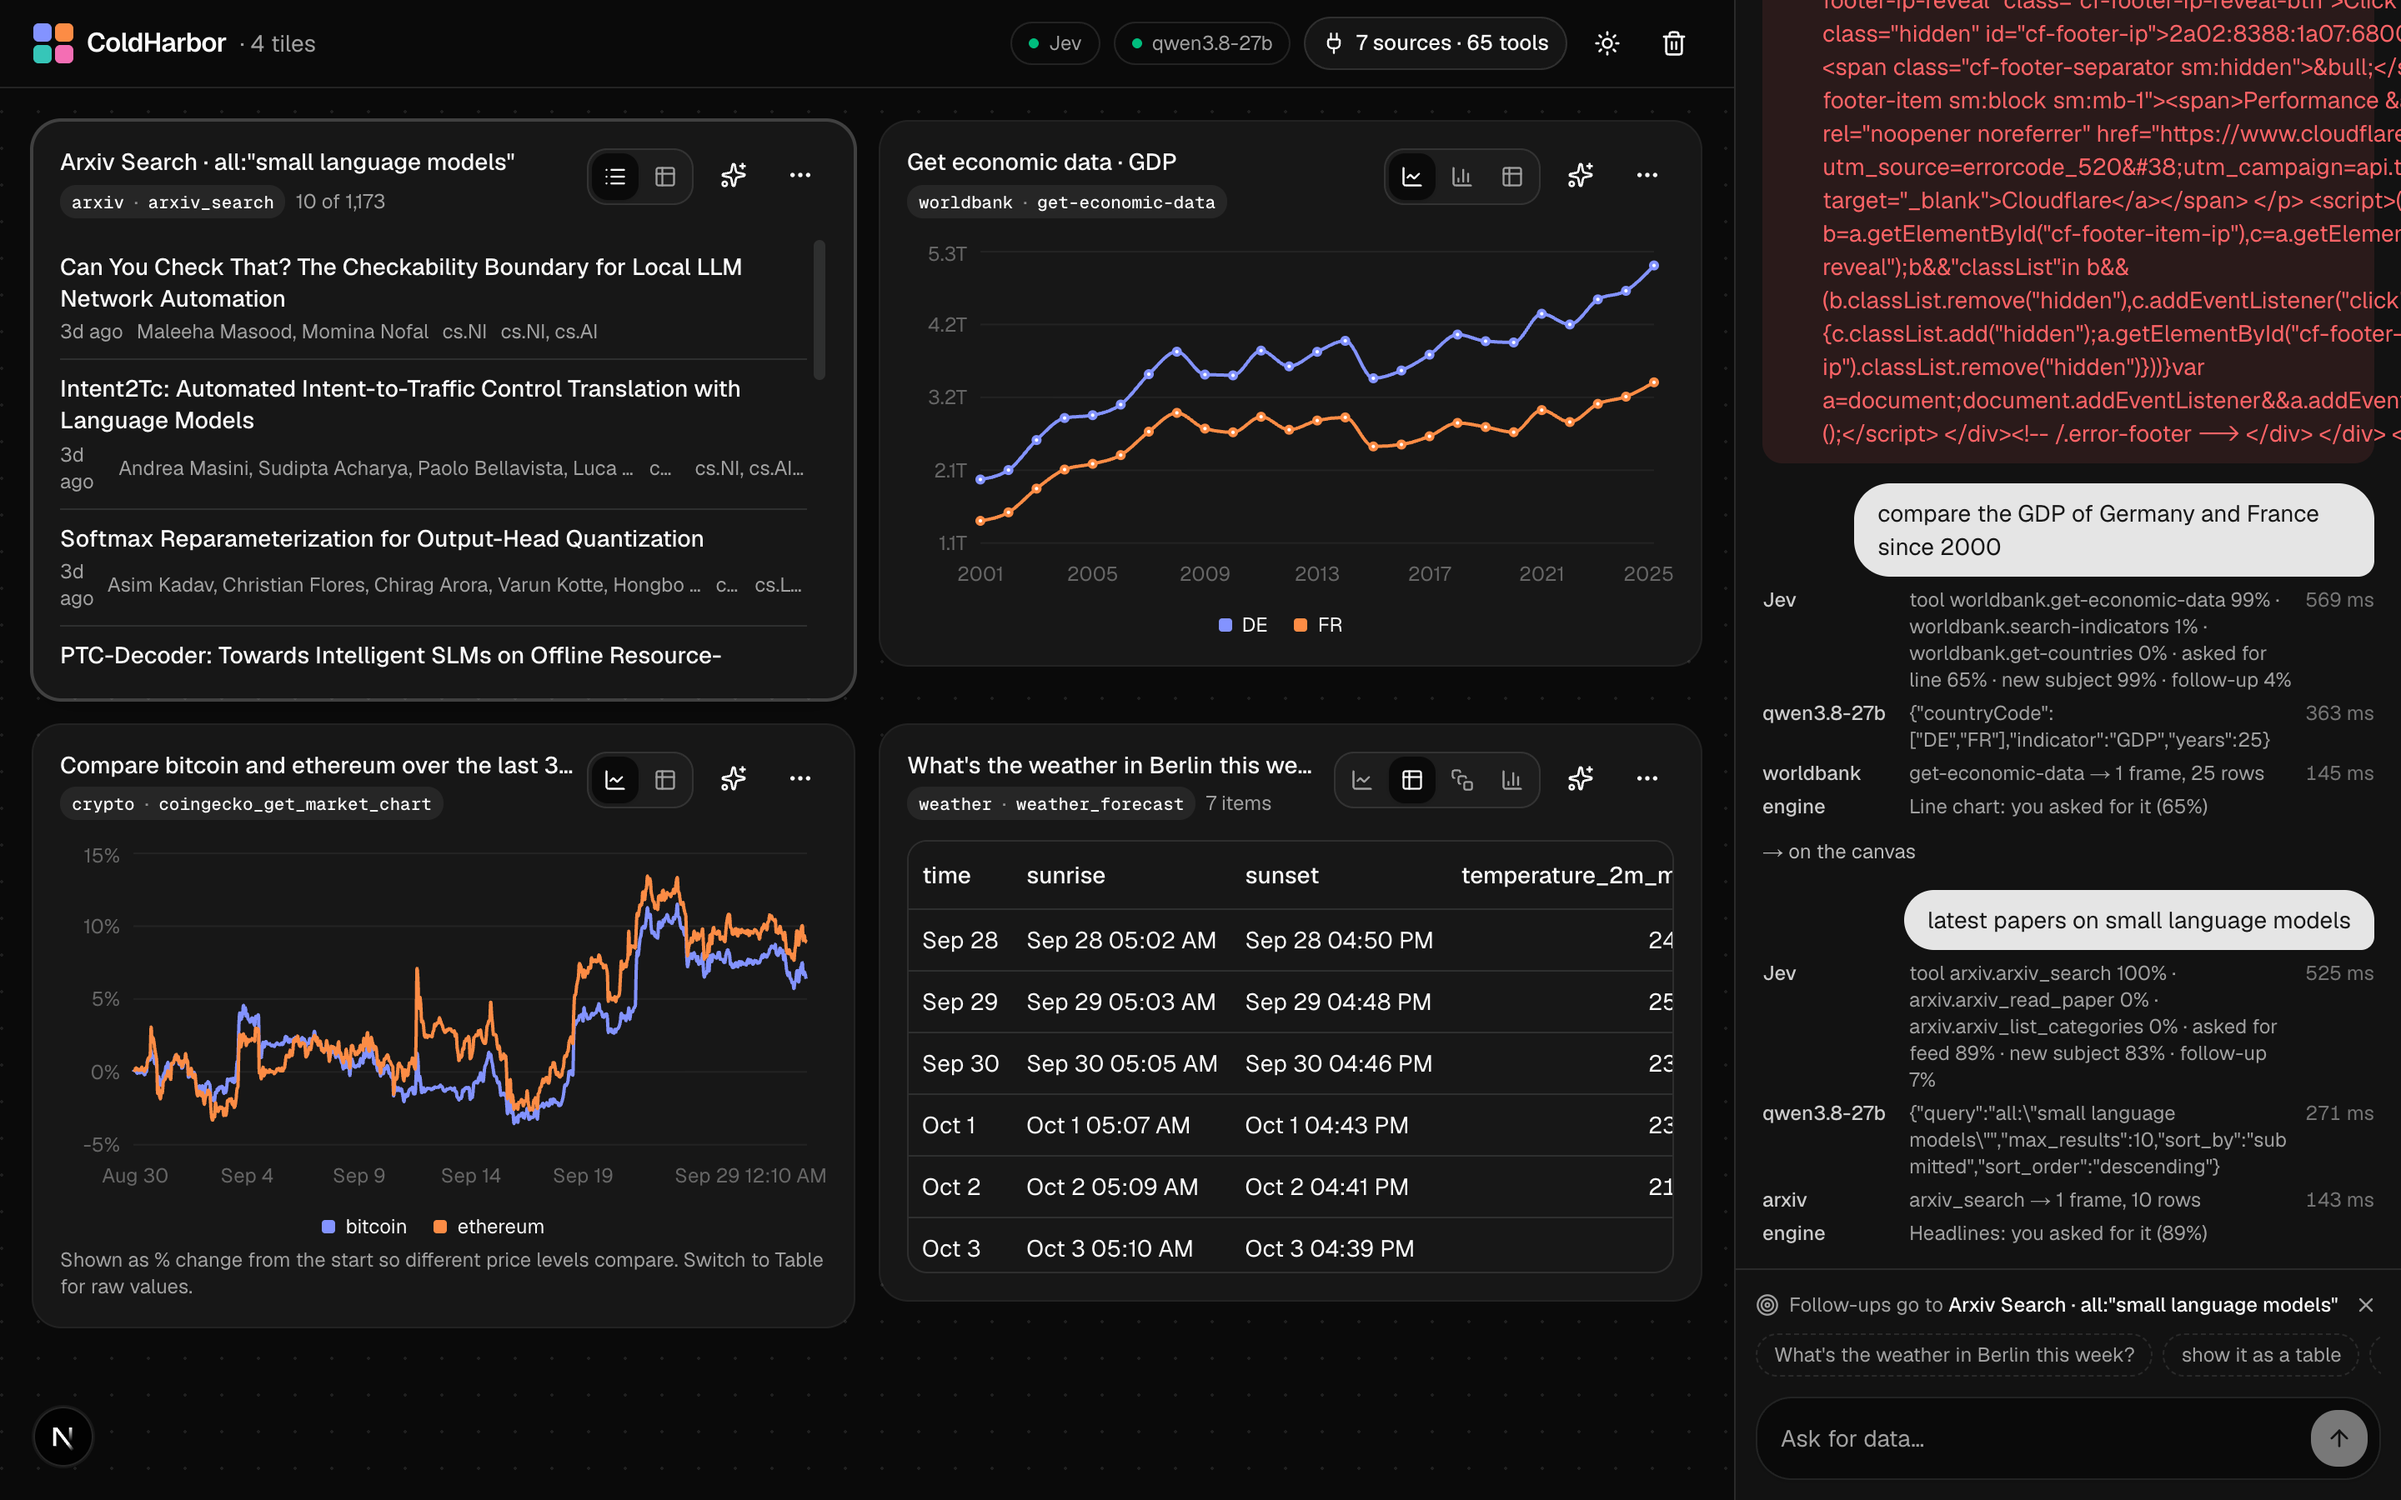
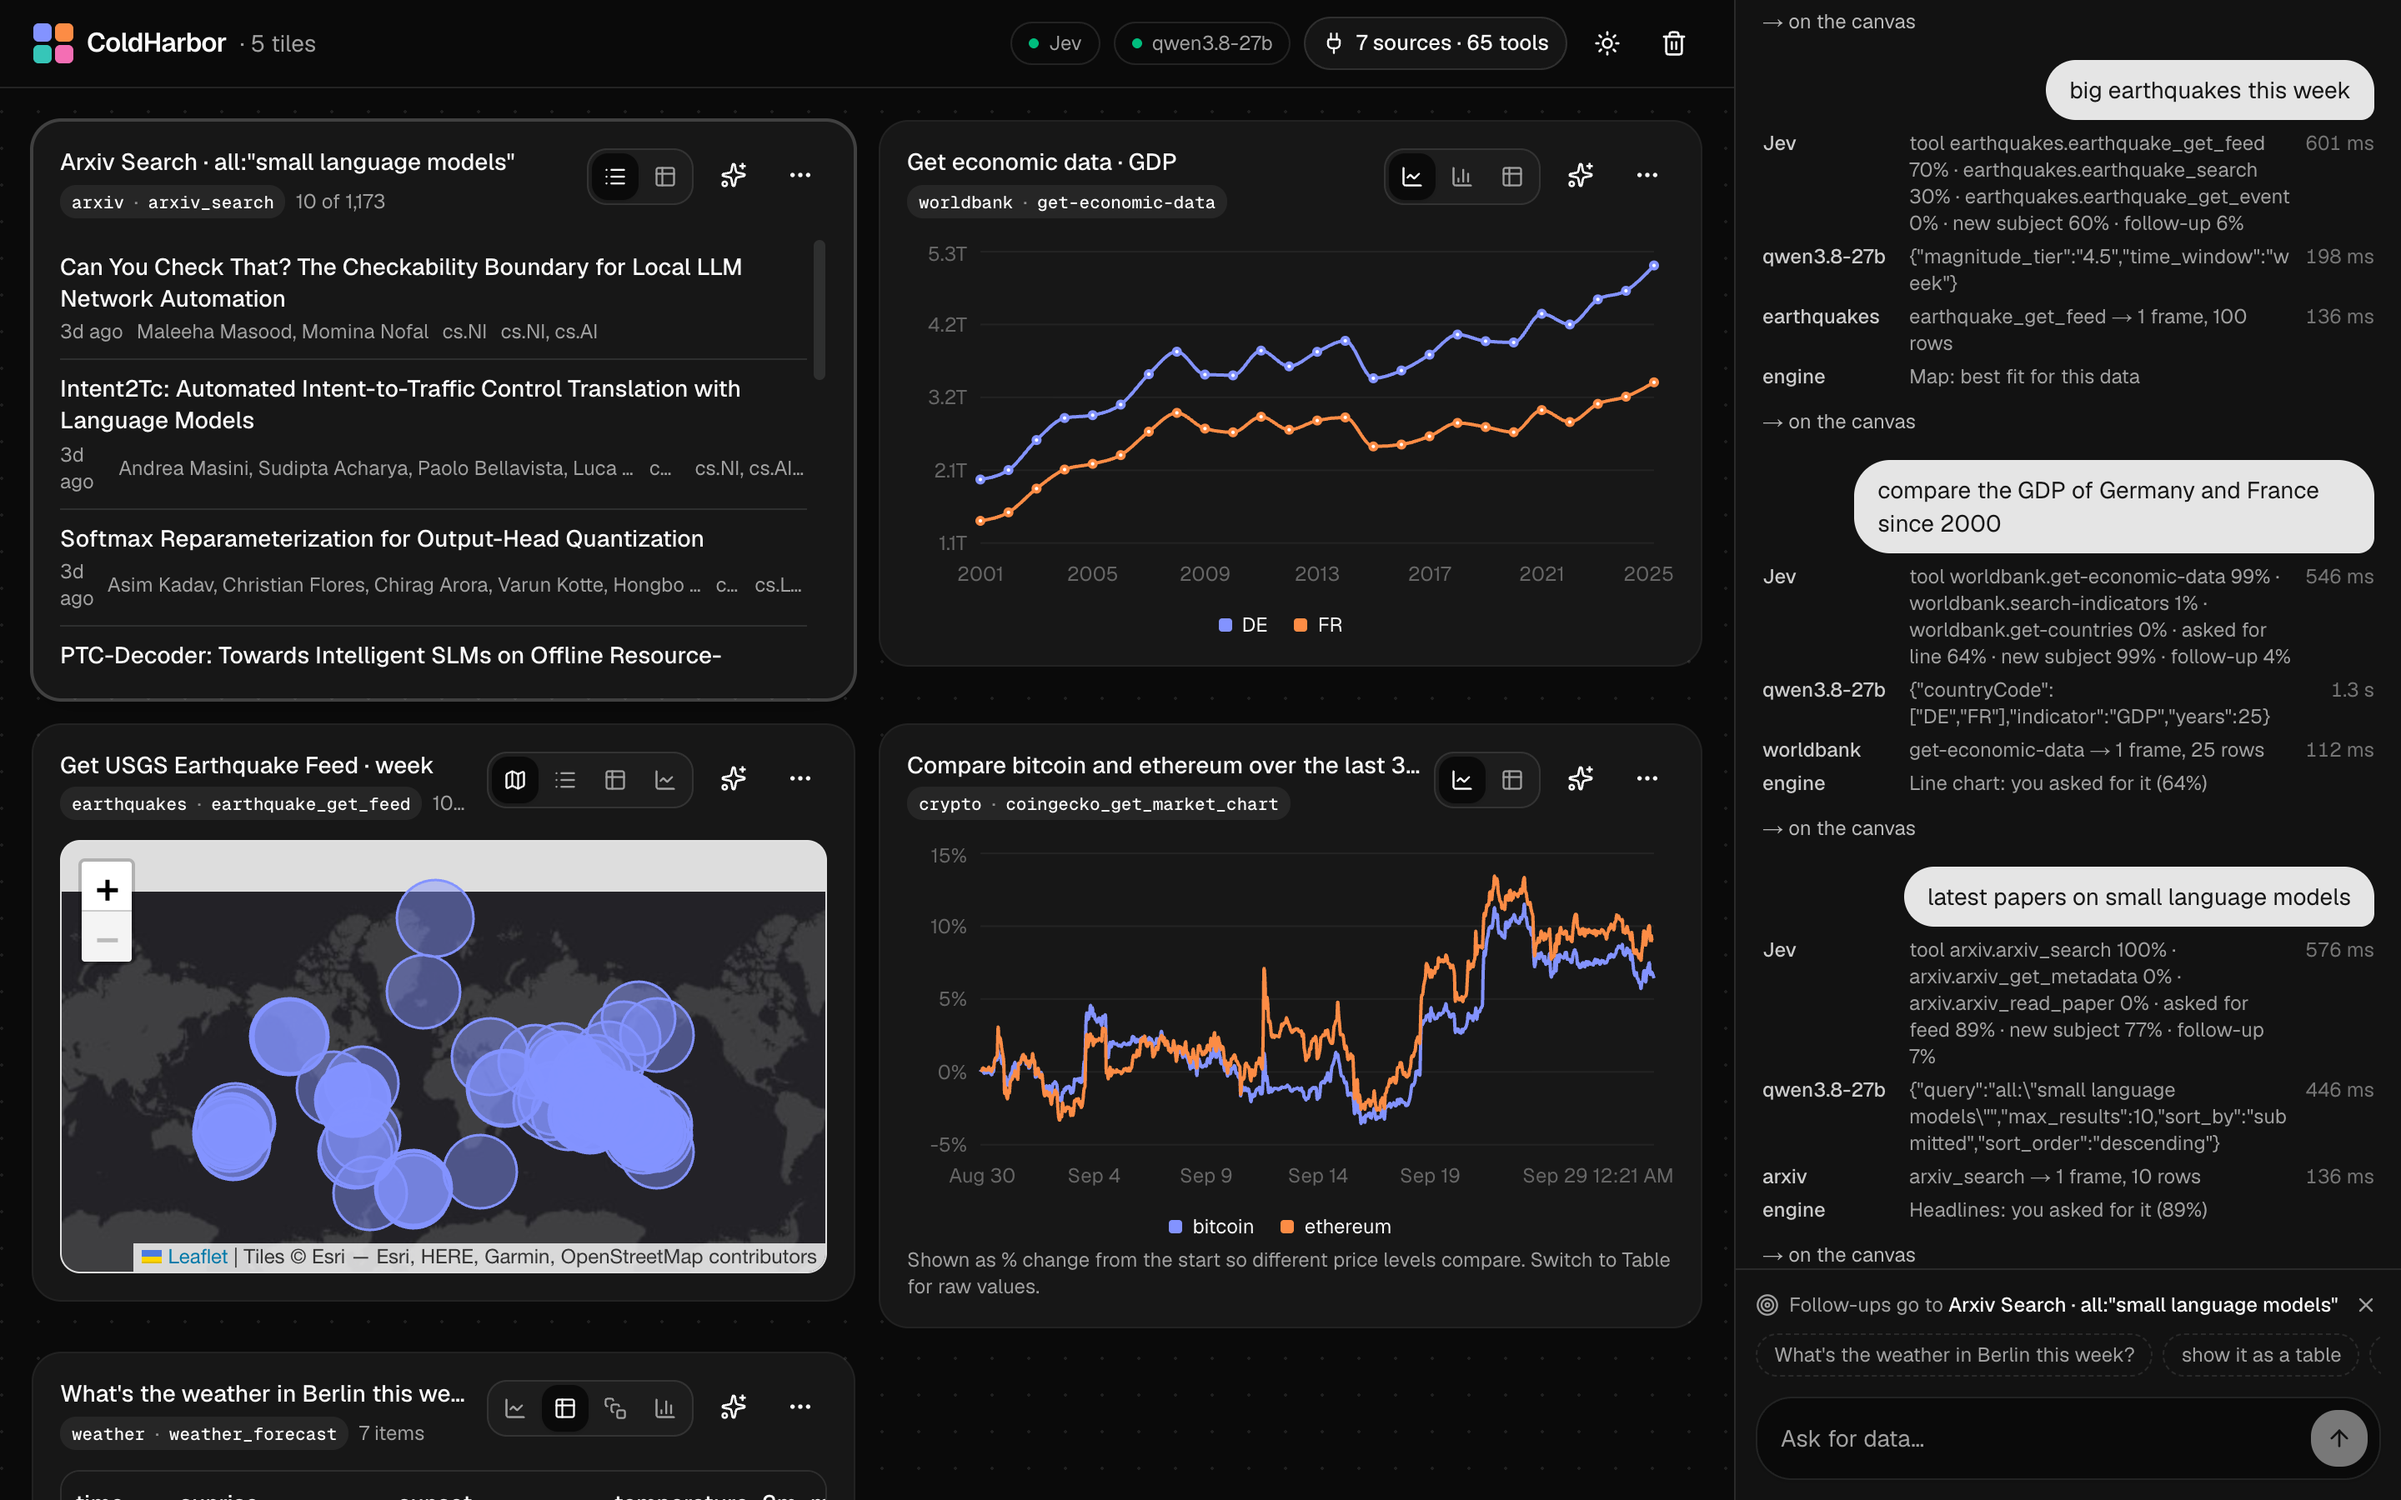
Clean screenshots, readable upstream errors, and the third idea
- Upstream errors that are whole HTML pages (a Cloudflare 520) become one line: the
  page's title. Long errors are clamped in the chat.
- Retook canvas.png (the last one showed such an error), why.png and the demo GIF;
  hid the Next.js dev indicator so it isn't in them.
- README: the third idea, System One running the harness instead of an agent loop.

diff --git a/core/mcp.ts b/core/mcp.ts
@@ -17,6 +17,14 @@ function readable(title: string) {
   return words.charAt(0).toUpperCase() + words.slice(1);
 }
 
+/** An error a server passed through from its upstream can be a whole HTML page (a Cloudflare 520): keep its title. */
+function brief(text: string) {
+  if (!/<(!doctype|html|head|body)\b/i.test(text)) return text;
+  const title = text.match(/<title[^>]*>([\s\S]*?)<\/title>/i)?.[1];
+  const words = (title ?? text.replace(/<(script|style)[\s\S]*?<\/\1>/gi, " ").replace(/<[^>]+>/g, " ")).replace(/\s+/g, " ").trim();
+  return `${text.slice(0, text.search(/<(!doctype|html|head|body)\b/i)).trim()} ${words.slice(0, 200)}`.trim();
+}
+
 const Content = z.array(z.object({ type: z.string(), text: z.string().optional(), resource: z.object({ text: z.string().optional() }).optional() })).catch([]);
 const Frames = z.object({ frames: z.array(Frame) });
 
@@ -127,7 +135,7 @@ export class McpHub implements ToolRunner {
     const texts = content.filter((c) => c.type === "text" && c.text).map((c) => c.text!);
     const resources = content.filter((c) => c.type === "resource" && c.resource?.text).map((c) => c.resource!.text!);
     const text = (resources.length && texts.join("").length < 300 ? resources : [...texts, ...resources]).join("\n");
-    if (res.isError) throw new Error(text || `${toolId} failed`);
+    if (res.isError) throw new Error(brief(text) || `${toolId} failed`);
     // ColdHarbor sources return { frames }; anything else is converted as well as it can be.
     const own = Frames.safeParse(res.structuredContent);
     return own.success ? own.data.frames : inferFrames(res.structuredContent ?? text, toolId.slice(dot + 1));

diff --git a/components/chat.tsx b/components/chat.tsx
@@ -130,7 +130,7 @@ function RunView({ run, running, busy, focus, send, onShowTile }: { run: Run; ru
       {(last?.type === "say" || last?.type === "error") && (
         <div className={cn("flex gap-2 rounded-lg px-3 py-2 text-sm", last.type === "error" ? "bg-destructive/10 text-destructive" : "bg-muted")}>
           {last.type === "error" && <CircleAlert className="mt-0.5 size-4 shrink-0" />}
-          {last.type === "error" ? last.message : last.text}
+          <span className={cn("min-w-0 break-words", last.type === "error" && "line-clamp-4")}>{last.type === "error" ? last.message : last.text}</span>
         </div>
       )}
       {last?.type === "confirm" && (

diff --git a/next.config.ts b/next.config.ts
@@ -3,4 +3,6 @@ import type { NextConfig } from "next";
 export default {
   // The MCP SDK spawns child processes; keep it out of the bundle.
   serverExternalPackages: ["@modelcontextprotocol/sdk"],
+  // No "N" button over the canvas; compile and runtime errors still show.
+  devIndicators: false,
 } satisfies NextConfig;

diff --git a/README.md b/README.md
@@ -4,7 +4,7 @@
 
 ![ColdHarbor answering six questions with six third-party MCP servers: a weather line chart, the same data as a table, bitcoin vs ethereum, earthquakes on a map, GDP of Germany vs France, and arXiv papers](docs/screenshots/demo.gif)
 
-ColdHarbor is a proof of two ideas:
+ColdHarbor is a proof of three ideas:
 
 1. **Let a "System One" model make the quick choices, and the LLM only the ones that need language.**
    A decision model ([Jev](https://docs.typesafe.ai/api), hosted, or [Kev](https://github.com/jaredpalmer/kev), 0.8B,
@@ -12,8 +12,14 @@ ColdHarbor is a proof of two ideas:
    picks from its shortlist when it's unsure. On 38 messages to six third-party MCP servers, compared with the same LLM
    answering the same questions itself: 74% → 95% routed right, 7.8 s → 0.54 s median ([results](#results)).
 2. **Answers should be interfaces, not paragraphs.** The UI is inferred from the shape of whatever data an MCP server
-   returns (charts, maps, tables, cards), with no per-server code. Follow-ups like "as a table" re-render without
-   calling the LLM.
+   returns (charts, maps, tables, headlines, cards), with no per-server code. Follow-ups like "as a table" re-render
+   without calling the LLM.
+3. **System One runs the harness, not an agent loop.** There is no plan, act, observe loop. After each message System
+   One says what's going on and what comes next: is this a follow-up to the tile on screen, only a view change, about
+   the user themself, or nothing to do at all; did the LLM make an argument up; is anything still missing. The engine
+   acts on those answers, and the LLM is called once to write the arguments (plus a second opinion or a fix when
+   needed). That's what makes a small model enough: in the benchmark's 9-message conversation, 8 LLM calls in all, and
+   "show it as a table" takes 0.3 s with none.
 
 In practice it's a chat-driven dashboard. Plug in any [MCP](https://modelcontextprotocol.io) server, and when you ask
 "weather in Berlin this week" or "compare bitcoin and ethereum over the last 30 days", it picks the right tool, fills in
@@ -48,6 +54,7 @@ When you build a feature, check it against these:
 - **Read-only runs itself; writes need a click.** Respect tool annotations; when a server gives none, only clearly
   read-only names (`get_…`, `list_…`, `search_…`) run on their own.
 - **Small models + System One over one big model.** Fast calibrated decisions first, the LLM only where it's needed.
+- **No agent loop.** System One decides what happened and what's next; the LLM writes, once.
 - **Show why.** Every step the engine takes should be visible to the user.
 
 ## Results
